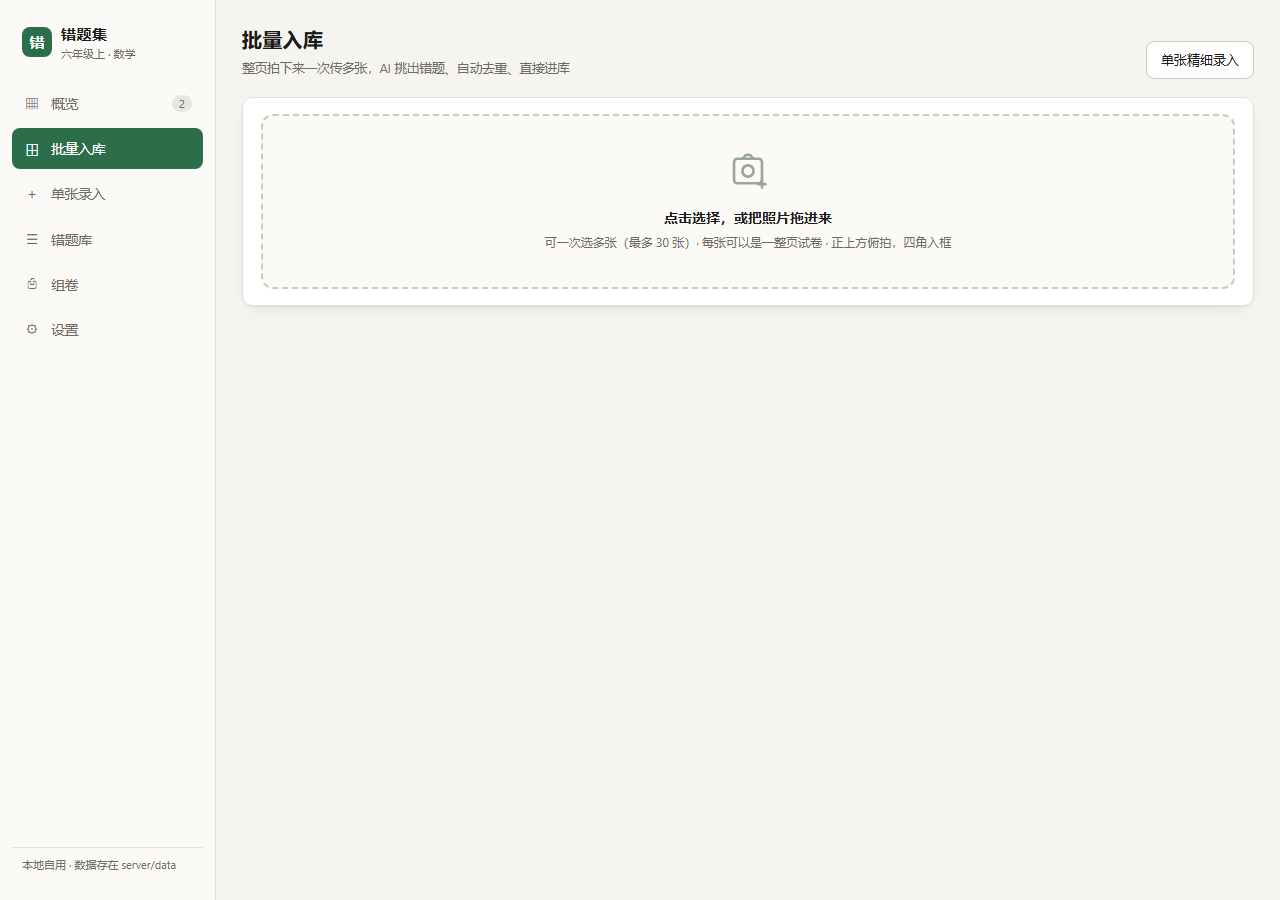
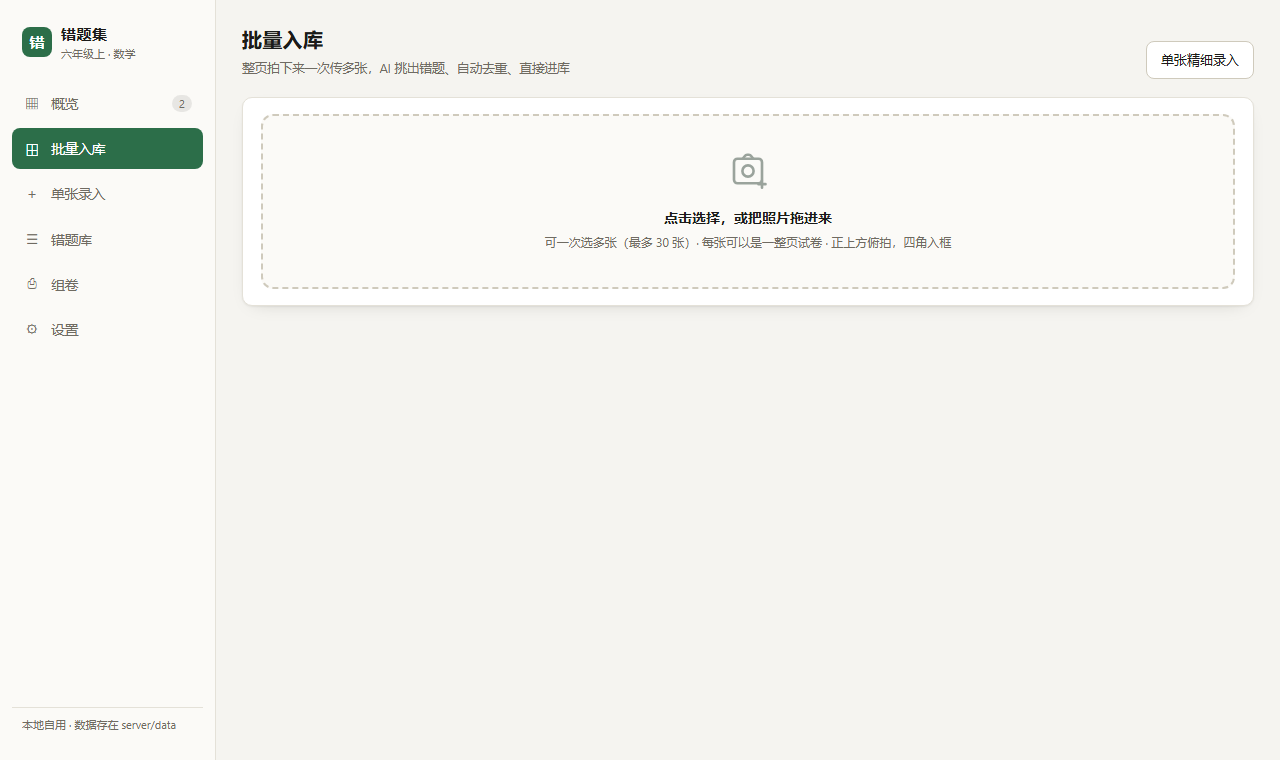
fix: 单张上传失败不再卡住整批，跳过并在页面上说明

diff --git a/web/src/views/Batch.vue b/web/src/views/Batch.vue
@@ -13,9 +13,11 @@ const opt = reactive({ exam: '批量导入', hint: '' })
 const MAX_FILES = 30
 let timer = null
 let seq = 0
+let submitted = []   // 实际提交的那几张，轮询回来按这个顺序对上
 
+const ready = computed(() => pics.value.filter((p) => p.file))
 const canStart = computed(
-  () => pics.value.length > 0 && pics.value.every((p) => p.file) && !task.value
+  () => ready.value.length > 0 && !busy.value && !task.value && !starting.value
 )
 const busy = computed(() => pics.value.some((p) => p.state === 'uploading'))
 const progress = computed(() => {
@@ -102,13 +104,14 @@ async function start() {
   error.value = ''
   starting.value = true
   try {
+    submitted = ready.value.slice()
     const { job } = await api.batchStart({
-      files: pics.value.map((p) => p.file),
+      files: submitted.map((p) => p.file),
       exam: opt.exam || '批量导入',
       hint: opt.hint,
     })
     task.value = job
-    pics.value.forEach((p) => {
+    submitted.forEach((p) => {
       p.state = 'pending'
       p.stage = '排队中'
     })
@@ -126,7 +129,7 @@ async function poll(id) {
     const { job } = await api.batchJob(id)
     task.value = job
     job.files.forEach((f, i) => {
-      const p = pics.value[i]
+      const p = submitted[i]
       if (!p) return
       p.state = f.status
       p.stage = f.stage
@@ -241,10 +244,13 @@ const figIds = computed(() => {
       <div v-if="!task" class="row" style="margin-top: 12px">
         <button class="btn btn-primary" :disabled="!canStart || starting" @click="start">
           <span v-if="starting" class="spinner"></span>
-          {{ starting ? '启动中…' : `开始批量入库（${pics.length} 张）` }}
+          {{ starting ? '启动中…' : `开始批量入库（${ready.length} 张）` }}
         </button>
         <button class="btn" :disabled="busy" @click="pick">继续添加</button>
         <span v-if="busy" class="small muted">正在上传…</span>
+        <span v-else-if="ready.length < pics.length" class="small muted">
+          有 {{ pics.length - ready.length }} 张没传上去，会跳过
+        </span>
       </div>
 
       <details v-if="!task" style="margin-top: 10px">
